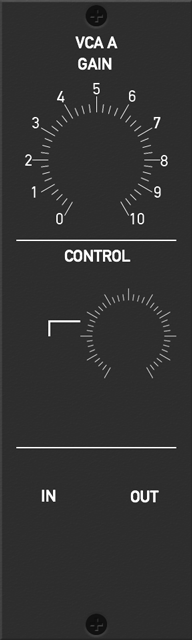
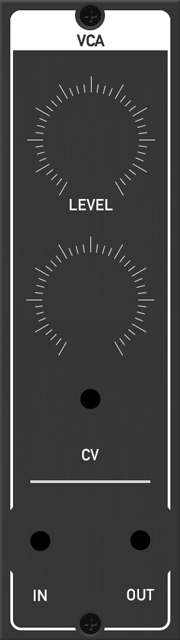
VCA

diff --git a/ColaLib/ColaLib/CCOL/CCOLComponentVCA.cpp b/ColaLib/ColaLib/CCOL/CCOLComponentVCA.cpp
@@ -1,0 +1,51 @@
+//
+//  CCOLComponentVCA.cpp
+//  ColaLib
+//
+//  Created by Chris on 15/11/2015.
+//  Copyright © 2015 Chris Rivers. All rights reserved.
+//
+
+#include "CCOLComponentVCA.hpp"
+#include <AudioToolbox/AudioToolbox.h>
+
+using namespace std;
+
+void CCOLComponentVCA::initializeIO() {
+    
+    input = new CCOLComponentInput(this, kIOTypeAudio, (char*)"In");
+    CVin = new CCOLComponentInput(this, kIOTypeControl, (char*)"CV In");
+    setInputs(vector<CCOLComponentInput*> { input, CVin });
+    
+    output = new CCOLComponentOutput(this, kIOTypeAudio, (char*)"Out");
+    setOutputs(vector<CCOLComponentOutput*> { output });
+    
+    level = new CCOLComponentParameter(this, (char*)"Level");
+    CVAmt = new CCOLComponentParameter(this, (char*)"CV Amt");
+    setParameters(vector<CCOLComponentParameter*> { level, CVAmt });
+
+    level->setNormalizedValue(0.5);
+    CVAmt->setNormalizedValue(0);
+}
+
+void CCOLComponentVCA::renderOutputs(unsigned int numFrames) {
+    CCOLComponent::renderOutputs(numFrames);
+    
+    SignalType *inputBuffer = input->getBuffer(numFrames);
+    SignalType *outputBuffer = output->prepareBufferOfSize(numFrames);
+    
+    SignalType *cvBuffer = CVin->getBuffer(numFrames);
+    
+    for (int i = 0; i < numFrames; i++) {
+        float delta = i / (float)numFrames;
+        float amp = level->getOutputAtDelta(delta);
+        if (CVin->isConnected()) {
+            amp = amp + (cvBuffer[i] * CVAmt->getOutputAtDelta(delta));
+            amp = MIN(MAX(amp, 0), 1.0);
+        }
+        
+        SignalType output = inputBuffer[i] * amp;
+        
+        outputBuffer[i] = output;
+    }
+}

diff --git a/ColaLib/ColaLib/CCOL/CCOLComponentVCA.hpp b/ColaLib/ColaLib/CCOL/CCOLComponentVCA.hpp
@@ -1,0 +1,34 @@
+//
+//  CCOLComponentVCA.hpp
+//  ColaLib
+//
+//  Created by Chris on 15/11/2015.
+//  Copyright © 2015 Chris Rivers. All rights reserved.
+//
+
+#ifndef CCOLComponentVCA_hpp
+#define CCOLComponentVCA_hpp
+
+#include <stdio.h>
+#include "CCOLComponent.hpp"
+#include "CCOLTypes.h"
+
+class CCOLComponentVCA : public CCOLComponent {
+
+    CCOLComponentOutput *output;
+    
+    CCOLComponentInput  *input;
+    CCOLComponentInput  *CVin;
+    
+    CCOLComponentParameter *level;
+    CCOLComponentParameter *CVAmt;
+    
+public:
+    CCOLComponentVCA(CCOLAudioContext *contextIn):CCOLComponent(contextIn) {
+    }
+    
+    void            initializeIO() override;
+    void            renderOutputs(unsigned int numFrames) override;
+};
+
+#endif /* CCOLComponentVCA_hpp */

diff --git a/ColaApp/ModuleCatalog.m b/ColaApp/ModuleCatalog.m
@@ -40,7 +40,10 @@
             
             [modules enumerateObjectsUsingBlock:^(id obj, NSUInteger index, BOOL *stop) {
                 NSDictionary *moduleDictionary = (NSDictionary*)obj;
-                [moduleDescriptions addObject:[[ModuleDescription alloc] initWithDictionary:moduleDictionary]];
+                ModuleDescription *thisModuleDescription = [[ModuleDescription alloc] initWithDictionary:moduleDictionary];
+                if (thisModuleDescription) {
+                    [moduleDescriptions addObject:thisModuleDescription];
+                }
             }];
             self.moduleDescriptions = [NSArray arrayWithArray:moduleDescriptions];
             NSLog(@"Module Catalog loaded : %lu module decsriptions", (unsigned long)[self.moduleDescriptions count]);

diff --git a/ColaLib/ColaLib/CCOL/CCOLAudioEngine.cpp b/ColaLib/ColaLib/CCOL/CCOLAudioEngine.cpp
@@ -190,6 +190,8 @@ CCOLComponentAddress CCOLAudioEngine::createComponent(char* componentType) {
         newComponent = new CCOLComponentEG(audioContext);
     } else if (string(componentType) == kCCOLComponentTypeLFO) {
         newComponent = new CCOLComponentLFO(audioContext);
+    } else if (string(componentType) == kCCOLComponentTypeVCA) {
+        newComponent = new CCOLComponentVCA(audioContext);
     } else if (string(componentType) == KCCOLComponentTypeMIDI) {
         newComponent = new CCOLMIDIComponent(audioContext);
     }

diff --git a/ColaLib/ColaLib/CCOL/CCOLTypes.h b/ColaLib/ColaLib/CCOL/CCOLTypes.h
@@ -19,6 +19,7 @@ typedef unsigned long long  CCOLParameterAddress;
 #define kCCOLComponentTypeVCO           "CCOLComponentTypeVCO"
 #define kCCOLComponentTypeEG            "CCOLComponentTypeEG"
 #define kCCOLComponentTypeLFO           "CCOLComponentTypeLFO"
+#define kCCOLComponentTypeVCA           "CCOLComponentTypeVCA"
 #define KCCOLComponentTypeMIDI          "CCOLMIDIComponent"
 
 // Interapp audio keys

diff --git a/ColaApp/ModuleDescription.m b/ColaApp/ModuleDescription.m
@@ -77,6 +77,11 @@
         
         // Create the thumbnail
         ModuleView *thumbnailView = [[ModuleView alloc] initWithModuleDescription:self];
+        
+        if (!thumbnailView) {
+            return nil;
+        } 
+        
         self.thumbnail = [[thumbnailView snapshot] resizeTo:CGSizeMake(100, 100)];
         [thumbnailView trash];
     }

diff --git a/ColaApp/BuildViewScrollView.m b/ColaApp/BuildViewScrollView.m
@@ -31,6 +31,8 @@
         
         [self setIndicatorStyle:UIScrollViewIndicatorStyleWhite];
         [self setDelaysContentTouches:NO];
+        
+        [self setClipsToBounds:NO];
     }
     return self;
 }

diff --git a/ColaLib/ColaLib/CCOL/CCOLComponents.h b/ColaLib/ColaLib/CCOL/CCOLComponents.h
@@ -12,6 +12,7 @@
 #import "CCOLComponentVCO.hpp"
 #import "CCOLComponentEG.hpp"
 #import "CCOLComponentLFO.hpp"
+#import "CCOLComponentVCA.hpp"
 #import "CCOLMIDIComponent.hpp"
 
 #endif /* CCOLComponents_h */
